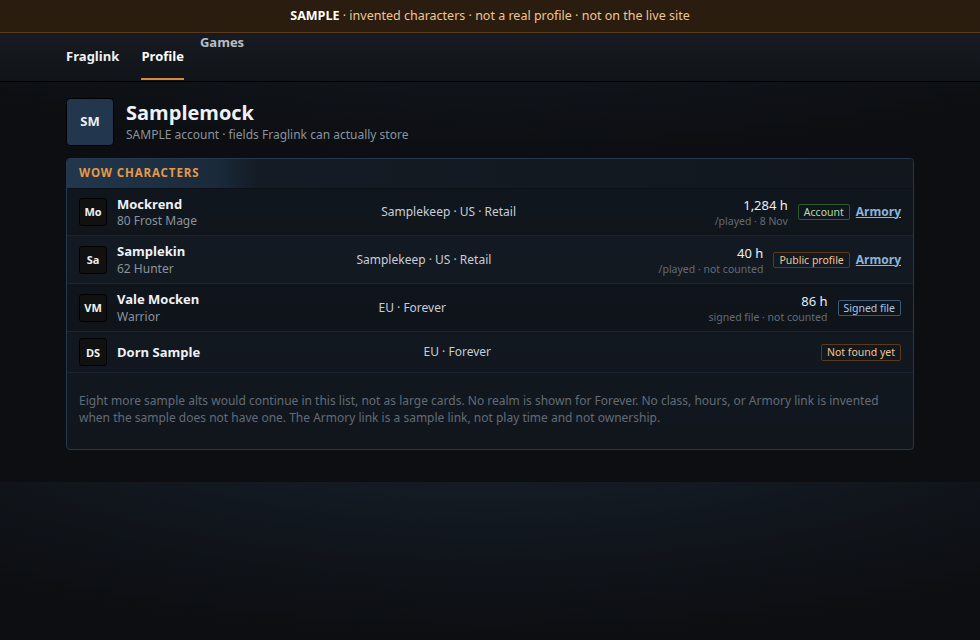
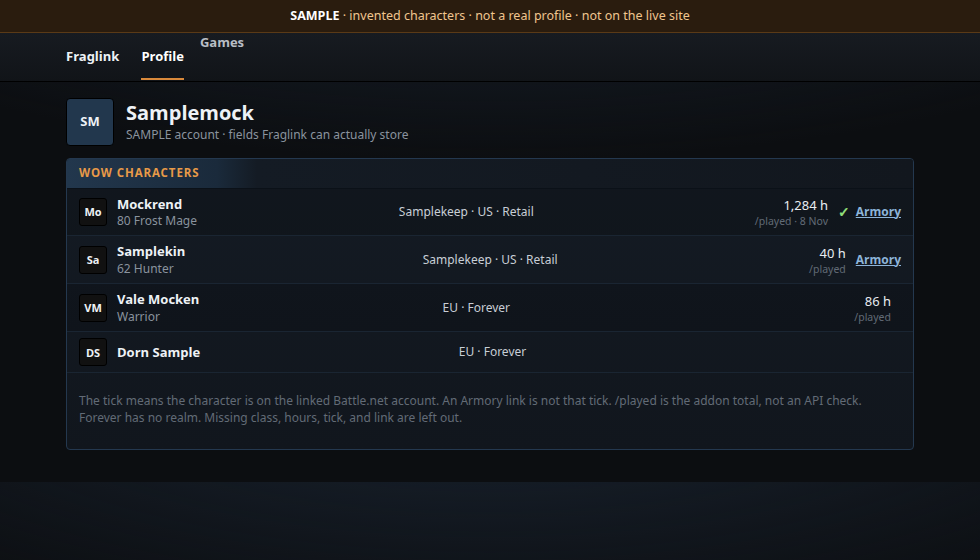
Show one verified tick on the character info panel.
The tick is only for a character on the linked Battle.net account. An Armory link and addon /played stay separate. Forever still has no realm, and missing fields stay hidden.

diff --git a/design/wow-cards/option-c-infopanel.html b/design/wow-cards/option-c-infopanel.html
@@ -42,10 +42,7 @@ main{padding:16px 0 32px}
 .hrs{text-align:right;font-variant-numeric:tabular-nums;color:#e8edf2;white-space:nowrap}
 .hrs small{display:block;color:var(--dim);font-weight:400;font-size:10.5px}
 .side{display:flex;gap:6px;align-items:center;justify-content:flex-end;white-space:nowrap}
-.pill{font-size:10.5px;border:1px solid var(--line2);border-radius:2px;padding:0 5px;color:var(--muted)}
-.pill.ok{border-color:#2f5a2a;color:#b8dcae}
-.pill.warn{border-color:#5a3a17;color:#f0c58e}
-.pill.info{border-color:#3d5a7a;color:#a9c8e8}
+.tick{color:#8fdc79;font-weight:700;font-size:14px;line-height:1}
 a.arm{color:var(--link);font-size:12px;font-weight:600}
 .foot{padding:8px 12px 10px;color:var(--dim);font-size:12px}
 @media(max-width:640px){
@@ -67,30 +64,30 @@ a.arm{color:var(--link);font-size:12px;font-weight:600}
       <div><div class="name">Mockrend</div><div class="cls">80 Frost Mage</div></div>
       <div class="meta">Samplekeep · US · Retail</div>
       <div class="hrs">1,284 h<small>/played · 8 Nov</small></div>
-      <div class="side"><span class="pill ok">Account</span><a class="arm" href="#sample-armory">Armory</a></div>
+      <div class="side"><span class="tick" title="On the linked Battle.net account">✓</span><a class="arm" href="#sample-armory">Armory</a></div>
     </div>
     <div class="row">
       <div class="port">Sa</div>
       <div><div class="name">Samplekin</div><div class="cls">62 Hunter</div></div>
       <div class="meta">Samplekeep · US · Retail</div>
-      <div class="hrs">40 h<small>/played · not counted</small></div>
-      <div class="side"><span class="pill warn">Public profile</span><a class="arm" href="#sample-armory">Armory</a></div>
+      <div class="hrs">40 h<small>/played</small></div>
+      <div class="side"><a class="arm" href="#sample-armory">Armory</a></div>
     </div>
     <div class="row">
       <div class="port">VM</div>
       <div><div class="name">Vale Mocken</div><div class="cls">Warrior</div></div>
       <div class="meta">EU · Forever</div>
-      <div class="hrs">86 h<small>signed file · not counted</small></div>
-      <div class="side"><span class="pill info">Signed file</span></div>
+      <div class="hrs">86 h<small>/played</small></div>
+      <div class="side"></div>
     </div>
     <div class="row">
       <div class="port">DS</div>
       <div><div class="name">Dorn Sample</div></div>
       <div class="meta">EU · Forever</div>
       <div class="hrs"></div>
-      <div class="side"><span class="pill warn">Not found yet</span></div>
+      <div class="side"></div>
     </div>
-    <p class="foot">Eight more sample alts would continue in this list, not as large cards. No realm is shown for Forever. No class, hours, or Armory link is invented when the sample does not have one. The Armory link is a sample link, not play time and not ownership.</p>
+    <p class="foot">The tick means the character is on the linked Battle.net account. An Armory link is not that tick. /played is the addon total, not an API check. Forever has no realm. Missing class, hours, tick, and link are left out.</p>
   </section>
 </div></main>
 </body>

diff --git a/design/wow-cards/PLAN.md b/design/wow-cards/PLAN.md
@@ -102,7 +102,7 @@ Lookups go in a new table. They do not insert `wow_characters`, because `played_
 
 The roster and ledger sketches are not the design. They stay in this folder so the rejection is on record. Do not implement them.
 
-The review mock is `option-c-infopanel.html`. It is a compact info panel: a small portrait, the name with class and level, one aligned metadata line, the site's blue header, and an Armory link only when a public profile exists. The exact arrangement of any older game-profile panel is not known, so this does not invent one. Fields are ones Fraglink already stores, or that a profile request we have tested ourselves can return. Sample names are labelled. Forever has no realm line. Missing spec, class, hours, and portrait detail are omitted. Addon `/played` and app-tracked time are not added together.
+The review mock is `option-c-infopanel.html`. It is a compact info panel: a small portrait, the name with class and level, one aligned metadata line, and the site's blue header. A single tick means the character is on the linked Battle.net account. Retail already does that check. Forever can use the same tick only after the user-token account list has been tested. A public Armory page is a link, not the tick, and addon `/played` is not an API verification. The exact arrangement of any older game-profile panel is not known, so this does not invent one. Fields are ones Fraglink already stores. Sample names are labelled. Forever has no realm line. Missing spec, class, hours, and the tick are omitted.
 
 No profile code changes until this panel is accepted. The HTML is not copied by `apps/site-web/build.py`.
 
